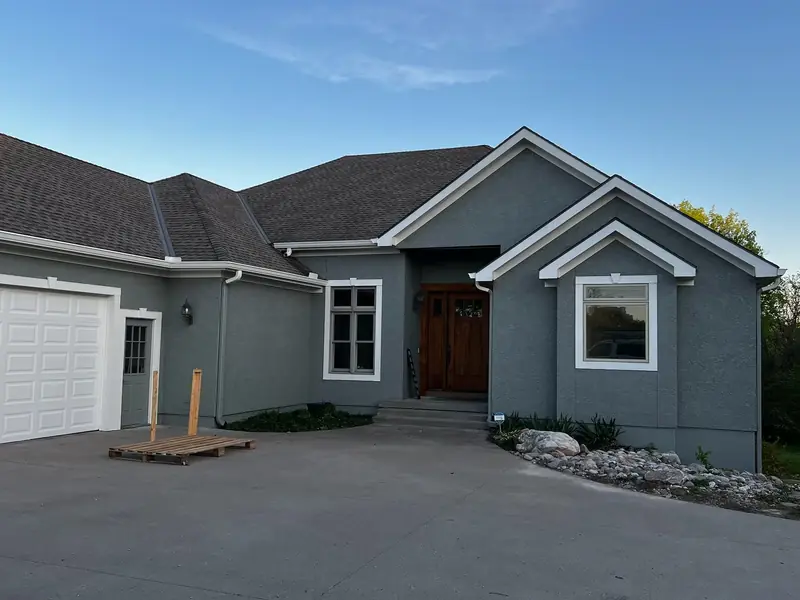
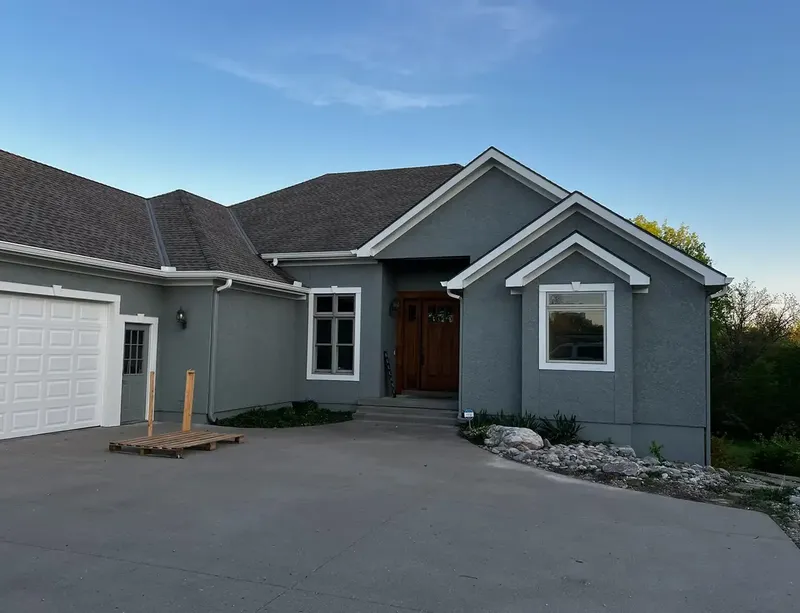
Blog photos: recenter best-time cover, new SW vs BM cover; refine owner quote
Claude-Session: https://claude.ai/code/session_01GDQcqtMCZBM9eZ9zwc32DY

diff --git a/src/pages/blog/sherwin-williams-vs-benjamin-moore.html b/src/pages/blog/sherwin-williams-vs-benjamin-moore.html
@@ -1,4 +1,4 @@
-<!--meta {"title": "Sherwin-Williams vs. Benjamin Moore Exterior Paint", "h1": "Sherwin-Williams vs. Benjamin Moore: which exterior paint should you choose?", "description": "A painter's comparison of Sherwin-Williams and Benjamin Moore exterior paints, including SuperPaint, Duration, and Emerald Rain Refresh.", "path": "/blog/sherwin-williams-vs-benjamin-moore/", "nav": "blog", "og": "blog-sw-wide", "ogAlt": "Painter brushing siding with Sherwin-Williams paint", "article": {"date": "2026-08-25", "read": 6}, "crumbs": [["Blog", "/blog/"], ["Sherwin-Williams vs. Benjamin Moore", "/blog/sherwin-williams-vs-benjamin-moore/"]]} -->
+<!--meta {"title": "Sherwin-Williams vs. Benjamin Moore Exterior Paint", "h1": "Sherwin-Williams vs. Benjamin Moore: which exterior paint should you choose?", "description": "A painter's comparison of Sherwin-Williams and Benjamin Moore exterior paints, including SuperPaint, Duration, and Emerald Rain Refresh.", "path": "/blog/sherwin-williams-vs-benjamin-moore/", "nav": "blog", "og": "blog-sw-teal", "ogAlt": "Two-story home painted deep teal with cedar accents", "article": {"date": "2026-08-25", "read": 6}, "crumbs": [["Blog", "/blog/"], ["Sherwin-Williams vs. Benjamin Moore", "/blog/sherwin-williams-vs-benjamin-moore/"]]} -->
 
 <section class="page-hero plain">
   <div class="wrap">

diff --git a/src/pages/index.html b/src/pages/index.html
@@ -106,7 +106,7 @@
   <div class="wrap reviews-personal">
     <div class="owner-card reveal">
       <div class="photo"><!--#img cade-memorial|Cade Zerr, owner of Arrowhead Painting|(min-width: 900px) 30vw, 100vw--></div>
-      <p class="owner-quote">“Thank you to every past and future customer for your continued support. As we work to help every Kansas City homeowner, your trust is what keeps us going.”</p>
+      <p class="owner-quote">“Thank you to every past and future customer for your continued support. We look forward to serving even more Kansas City homeowners with the same care and quality you’ve come to expect.”</p>
       <p class="owner-sig"><strong>Cade Zerr</strong><span>Owner, Arrowhead Painting</span></p>
     </div>
     <div class="reveal">
